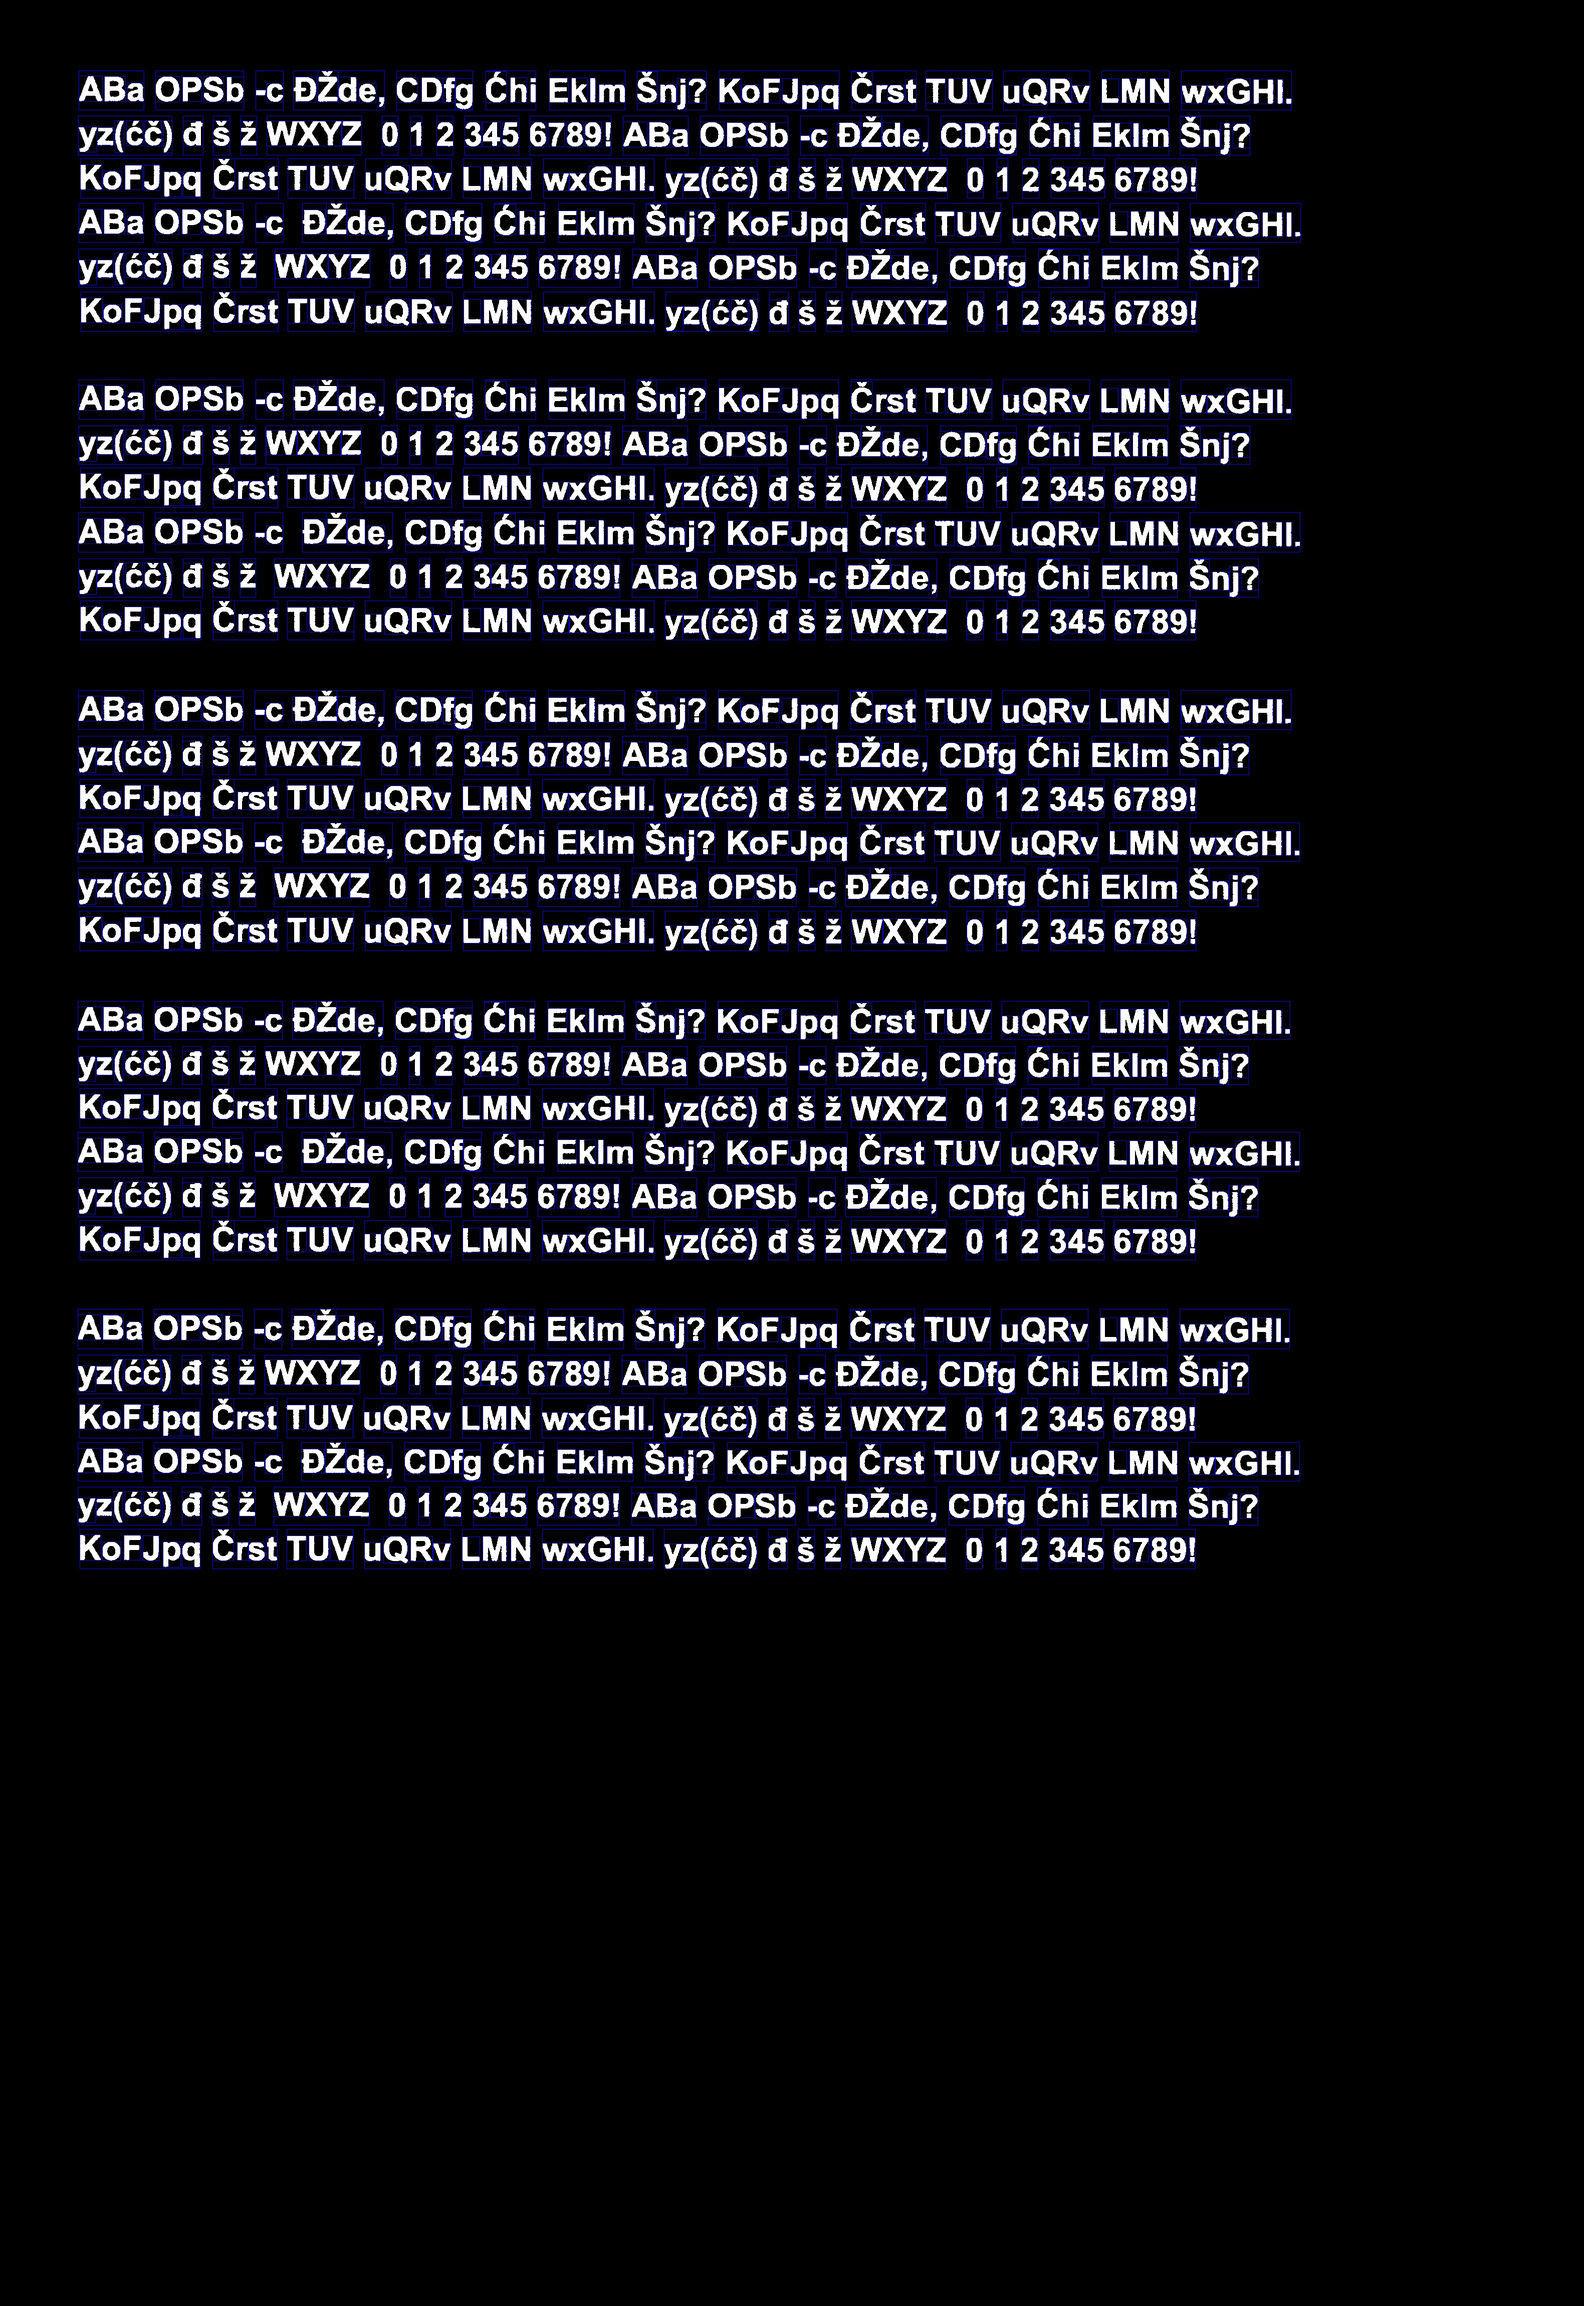
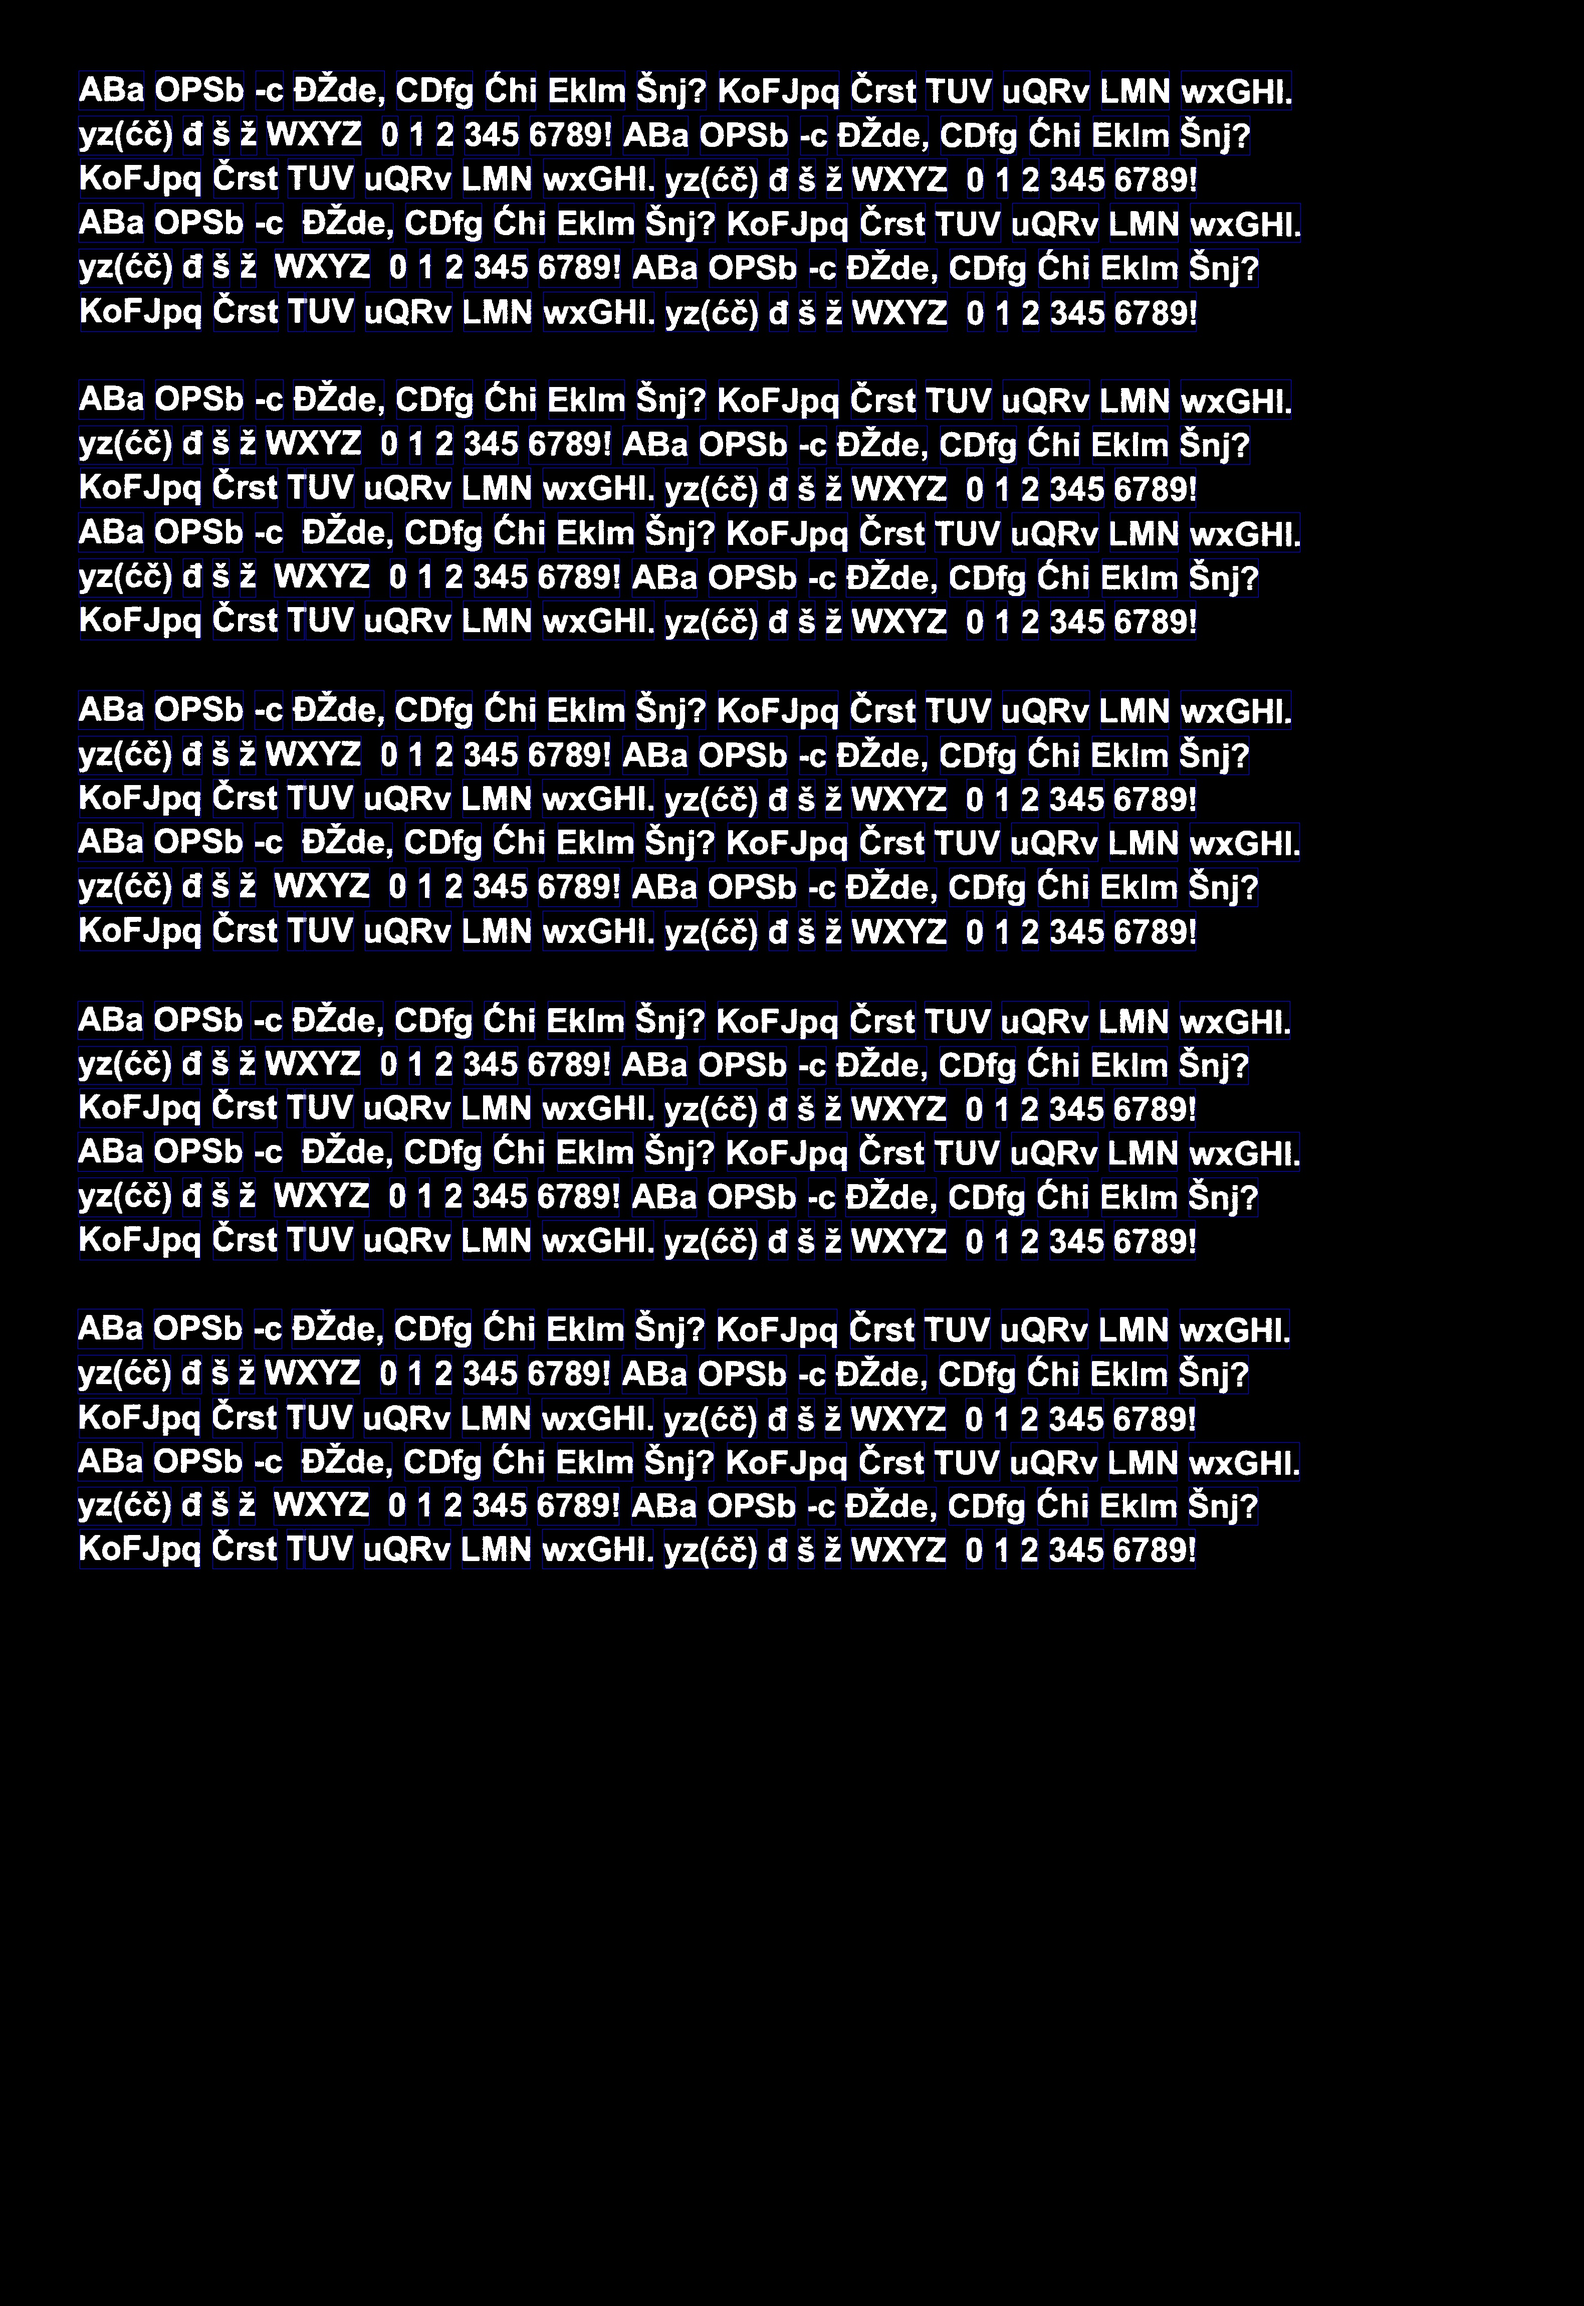
Improved dataset operations.

diff --git a/src/ocr/dataset_processor.py b/src/ocr/dataset_processor.py
@@ -19,7 +19,7 @@ INVALID_WORD_FOLDER = "./invalid_words"
 def process_image(image_path):
     input_image = load_image(image_path)
 
-    binarizer = sauvola.SauvolaBinarization()
+    binarizer = otsu.OtsuBinarization()
     binarized_img = binarizer.process(input_image)
     binarized_img = cv2.bitwise_not(binarized_img)
 
@@ -39,6 +39,8 @@ def process_text_file(file_path):
     lines = []
     with open(file_path) as text_file:
         lines = text_file.read().splitlines()
+    lines = list(map(lambda line: line.strip(), lines))
+    lines = list(filter(None, lines))
     return lines
 
 
@@ -82,6 +84,7 @@ def process(args):
     file_lines = process_text_file(args.text_file)
     text_image = process_image(args.image)
 
+    import pdb; pdb.set_trace()
     text_lines = text_image.get_segments()
     if len(text_lines) != len(file_lines):
         print("Neispravan broj linija!")

diff --git a/src/ocr/test.py b/src/ocr/test.py
@@ -72,7 +72,7 @@ for line in lines:
         words_count += 1
         draw_box(backtorgb, word)
         for char in chars:
-            draw_box(backtorgb, char)
+            # draw_box(backtorgb, char)
             chars_count += 1
 
 print("Broj rijeci", words_count)
